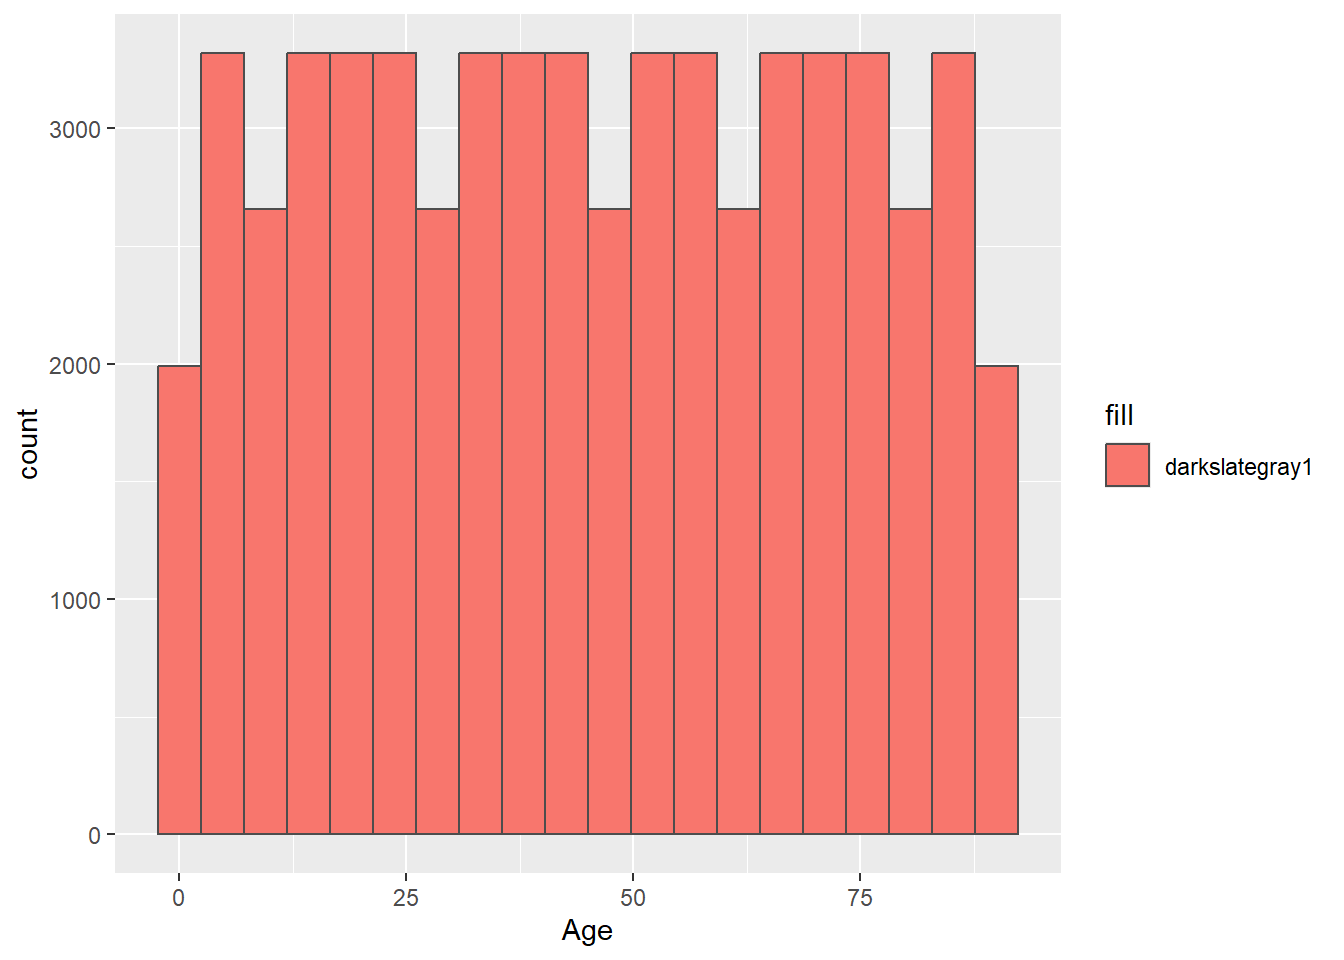
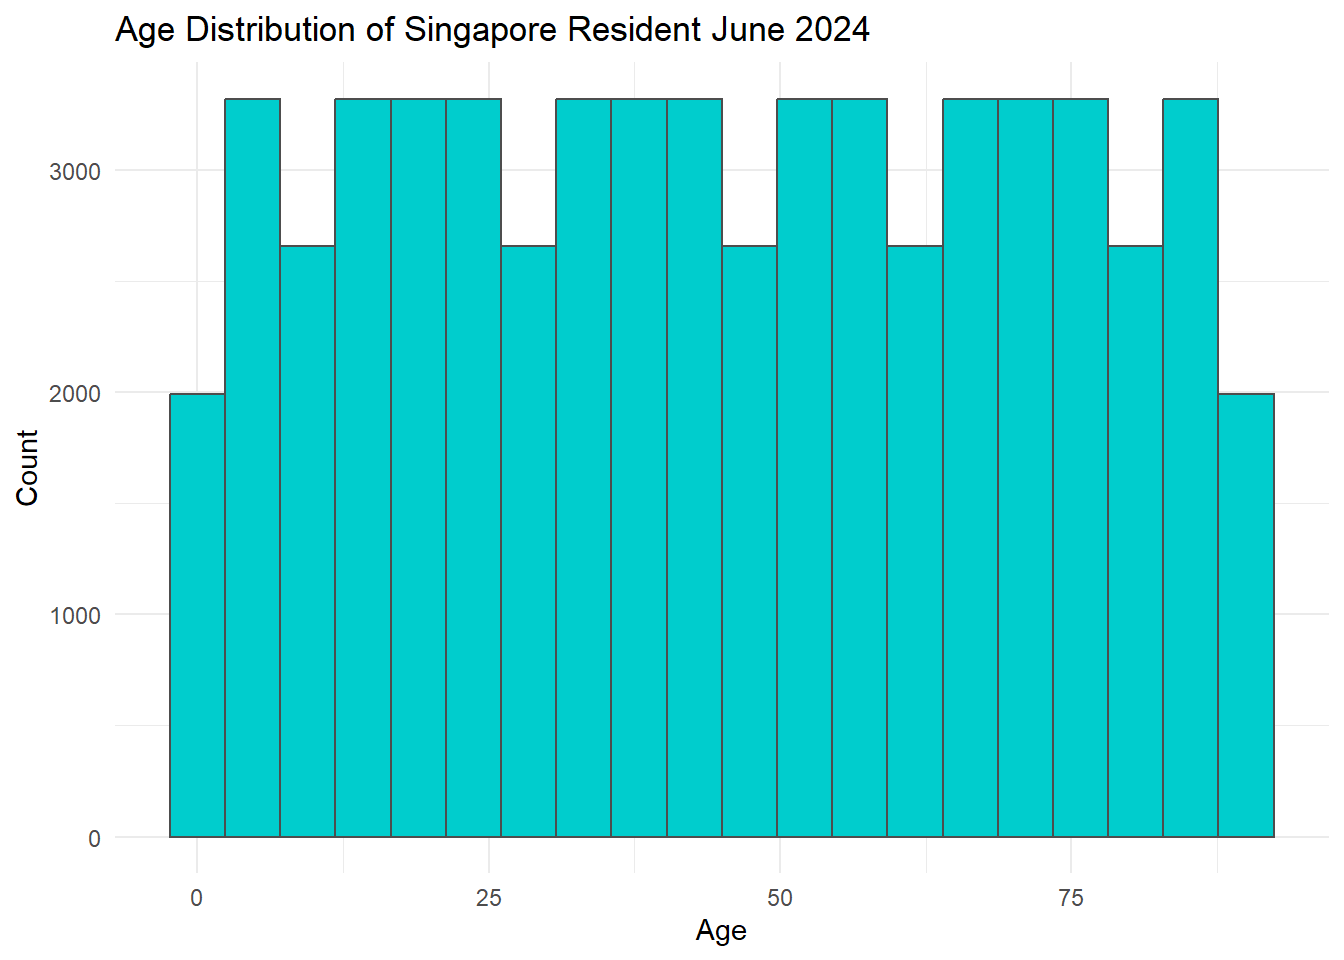
take home 1

diff --git a/_site/Take-home_Ex/Take-home_Ex01/Take-home_Ex01.html b/_site/Take-home_Ex/Take-home_Ex01/Take-home_Ex01.html
@@ -349,8 +349,8 @@ We first check for unique values in the Age variable.</p>
 </div>
 </div>
 <div class="cell">
-<div class="sourceCode cell-code" id="cb17"><pre class="sourceCode r code-with-copy"><code class="sourceCode r"><span id="cb17-1"><a href="#cb17-1" aria-hidden="true" tabindex="-1"></a>population_data<span class="sc">$</span>Sex[population_data<span class="sc">$</span>Sex <span class="sc">==</span> <span class="st">"Female"</span>] <span class="ot">&lt;-</span> <span class="st">"1"</span></span>
-<span id="cb17-2"><a href="#cb17-2" aria-hidden="true" tabindex="-1"></a>population_data<span class="sc">$</span>Sex[population_data<span class="sc">$</span>Sex <span class="sc">==</span> <span class="st">"Male"</span>] <span class="ot">&lt;-</span> <span class="st">"0"</span></span>
+<div class="sourceCode cell-code" id="cb17"><pre class="sourceCode r code-with-copy"><code class="sourceCode r"><span id="cb17-1"><a href="#cb17-1" aria-hidden="true" tabindex="-1"></a>population_data<span class="sc">$</span>Sex[population_data<span class="sc">$</span>Sex <span class="sc">==</span> <span class="st">"Females"</span>] <span class="ot">&lt;-</span> <span class="st">"1"</span></span>
+<span id="cb17-2"><a href="#cb17-2" aria-hidden="true" tabindex="-1"></a>population_data<span class="sc">$</span>Sex[population_data<span class="sc">$</span>Sex <span class="sc">==</span> <span class="st">"Males"</span>] <span class="ot">&lt;-</span> <span class="st">"0"</span></span>
 <span id="cb17-3"><a href="#cb17-3" aria-hidden="true" tabindex="-1"></a>population_data<span class="sc">$</span>Sex <span class="ot">&lt;-</span> <span class="fu">as.numeric</span>(population_data<span class="sc">$</span>Sex)</span></code><button title="Copy to Clipboard" class="code-copy-button"><i class="bi"></i></button></pre></div>
 </div>
 <p>Univariate</p>
@@ -368,8 +368,12 @@ We first check for unique values in the Age variable.</p>
 </div>
 <div class="cell">
 <div class="sourceCode cell-code" id="cb19"><pre class="sourceCode r code-with-copy"><code class="sourceCode r"><span id="cb19-1"><a href="#cb19-1" aria-hidden="true" tabindex="-1"></a><span class="fu">ggplot</span>(<span class="at">data=</span>population_data, </span>
-<span id="cb19-2"><a href="#cb19-2" aria-hidden="true" tabindex="-1"></a>       <span class="fu">aes</span>(<span class="at">x =</span> Age, <span class="at">fill=</span><span class="st">"darkslategray1"</span>)) <span class="sc">+</span></span>
-<span id="cb19-3"><a href="#cb19-3" aria-hidden="true" tabindex="-1"></a>  <span class="fu">geom_histogram</span>(<span class="at">bins=</span><span class="dv">20</span>, <span class="at">color=</span><span class="st">"gray30"</span>)  </span></code><button title="Copy to Clipboard" class="code-copy-button"><i class="bi"></i></button></pre></div>
+<span id="cb19-2"><a href="#cb19-2" aria-hidden="true" tabindex="-1"></a>       <span class="fu">aes</span>(<span class="at">x =</span> Age)) <span class="sc">+</span></span>
+<span id="cb19-3"><a href="#cb19-3" aria-hidden="true" tabindex="-1"></a>  <span class="fu">geom_histogram</span>(<span class="at">bins=</span><span class="dv">20</span>, <span class="at">color=</span><span class="st">"gray30"</span>, <span class="at">fill=</span><span class="st">"cyan3"</span>)<span class="sc">+</span> </span>
+<span id="cb19-4"><a href="#cb19-4" aria-hidden="true" tabindex="-1"></a>  <span class="fu">labs</span>(<span class="at">title =</span> <span class="st">"Age Distribution of Singapore Resident June 2024"</span>,</span>
+<span id="cb19-5"><a href="#cb19-5" aria-hidden="true" tabindex="-1"></a>       <span class="at">x =</span> <span class="st">"Age"</span>,</span>
+<span id="cb19-6"><a href="#cb19-6" aria-hidden="true" tabindex="-1"></a>       <span class="at">y =</span> <span class="st">"Count"</span>) <span class="sc">+</span></span>
+<span id="cb19-7"><a href="#cb19-7" aria-hidden="true" tabindex="-1"></a>  <span class="fu">theme_minimal</span>()  </span></code><button title="Copy to Clipboard" class="code-copy-button"><i class="bi"></i></button></pre></div>
 <div class="cell-output-display">
 <div>
 <figure class="figure">
